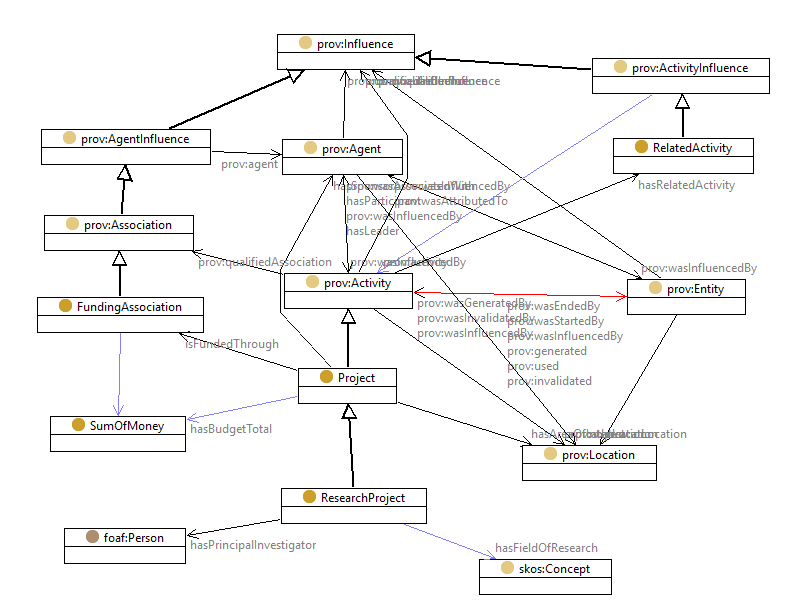
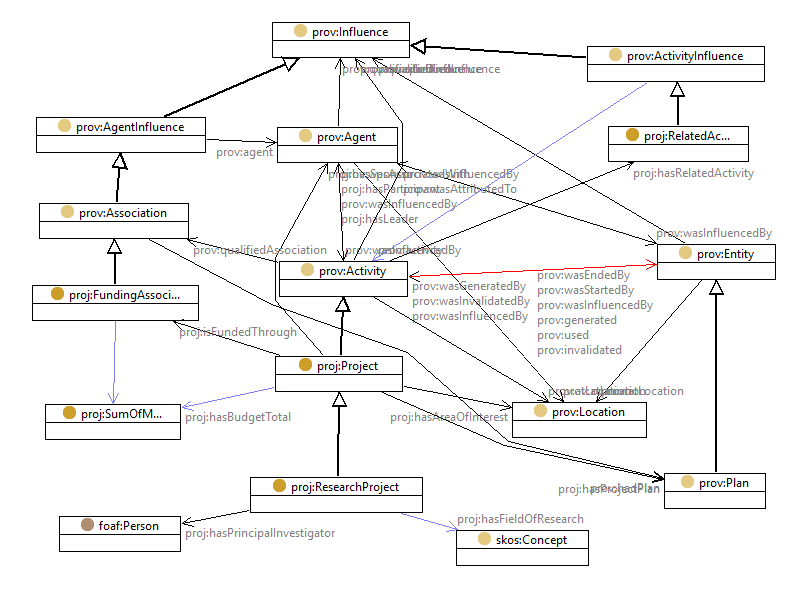
added proj:projectPlan

Changed region(s): [[0.0304, 0.0311, 0.9722, 0.8098], [0.0608, 0.7164, 0.7595, 0.9656], [0.3646, 0.3426, 0.3949, 0.3738]]

diff --git a/project/index.html b/project/index.html
@@ -47,7 +47,7 @@
         <h2>Introduction</h2>
         <p>
           This document describes a core ontology for the description of a project, known as PROJECT.
-          A <i>project</i> is a time-bounded activity, in which one or more agent participants fill specific roles (e.g. project leader, sponsor or funder), which is typically structured as a set of sub-activities, and generates products.
+          A <i>project</i> is a planned activity, in which one or more agent participants fill specific roles (e.g. project leader, sponsor or funder), which is typically structured as a set of sub-activities, and generates products.
           The project is a key unit of activity in modern business.
           A project provides key context for many productive activities and their outputs, including datasets.
         </p>
@@ -71,7 +71,7 @@
           </p>
           <ul>
             <li>
-              project timing, funding, goals
+              project planning, funding, goals
             </li><li>
               project stakeholders and relationships
             </li><li>
@@ -231,7 +231,7 @@
             Figure 2: Relationship of a project to its sub-activities. Rough draft to indicate scope of a properly drafted figure to be included here
           </figcaption>
           <p>
-            The core class in the ontology is <a href="#proj:Project">proj:Project</a> which is intended to be applicable to a broad range of project types. A <i>project</i> is an activity with a planned start and end time, a designated leader, a known sponsor and budget, and is modelled as a specialization of the <a href="https://www.w3.org/TR/prov-o/#Activity">prov:Activity</a> class.
+            The core class in the ontology is <a href="#proj:Project">proj:Project</a> which is intended to be applicable to a broad range of project types. A <i>project</i> is a planned activity with a designated leader, a known sponsor and budget, and is modelled as a specialization of the <a href="https://www.w3.org/TR/prov-o/#Activity">prov:Activity</a> class.
           </p>
           <p>
             A project is typically organized through a set of sub-activities, which may be undertaken concurrently or consecutively, and may themselves be composed of further sub-activities. A project is often related to or influenced by other activities in addition to its sub-activities.
@@ -413,6 +413,7 @@
               | <a href="#proj:objective">objective</a>
               | <a href="#proj:plannedEndTime">plannedEndTime</a>
               | <a href="#proj:plannedStartTime">plannedStartTime</a>
+              | <a href="#proj:projectPlan">projectPlan</a>
               | <a href="#proj:subActivityAssociation">subActivityAssociation</a>
               |
             </p>
@@ -463,6 +464,23 @@
                   <tr><td class="prop">Type:</td><td><a href="http://www.w3.org/2002/07/owl#AnnotationProperty">owl:AnnotationProperty</a></td></tr>
                   <tr><td class="prop">Domain:</td><td><a href="#proj:Project">proj:Project</a></td></tr>
                   <tr><td class="prop">subpropertyOf:</td><td><a href="http://www.w3.org/2000/01/rdf-schema#comment">rdfs:comment</a></td></tr>
+                  <tr><td class="prop">Usage note:</td><td></td></tr>
+                </tbody>
+              </table>
+            </section>
+            <section id="proj:projectPlan">
+              <h4>Property: projectPlan</h4>
+              <p>
+                The project plan.
+              </p>
+
+              <table class="definition">
+                <thead><tr><th>RDF Property:</th><th><a href="http://www.w3.org/ns/project#projectPlan">proj:projectPlan</a></th></tr></thead>
+                <tbody>
+                  <tr><td class="prop">Type:</td><td><a href="http://www.w3.org/2002/07/owl#ObjectProperty">owl:ObjectProperty</a></td></tr>
+                  <tr><td class="prop">Domain:</td><td><a href="#proj:Project">proj:Project</a></td></tr>
+                  <tr><td class="prop">Range:</td><td><a href="http://www.w3.org/ns/prov#Activity">prov:Plan</a></td></tr>
+                  <tr><td class="prop">subpropertyOf:</td><td><a href="http://www.w3.org/ns/prov#used">prov:used</a></td></tr>
                   <tr><td class="prop">Usage note:</td><td></td></tr>
                 </tbody>
               </table>
